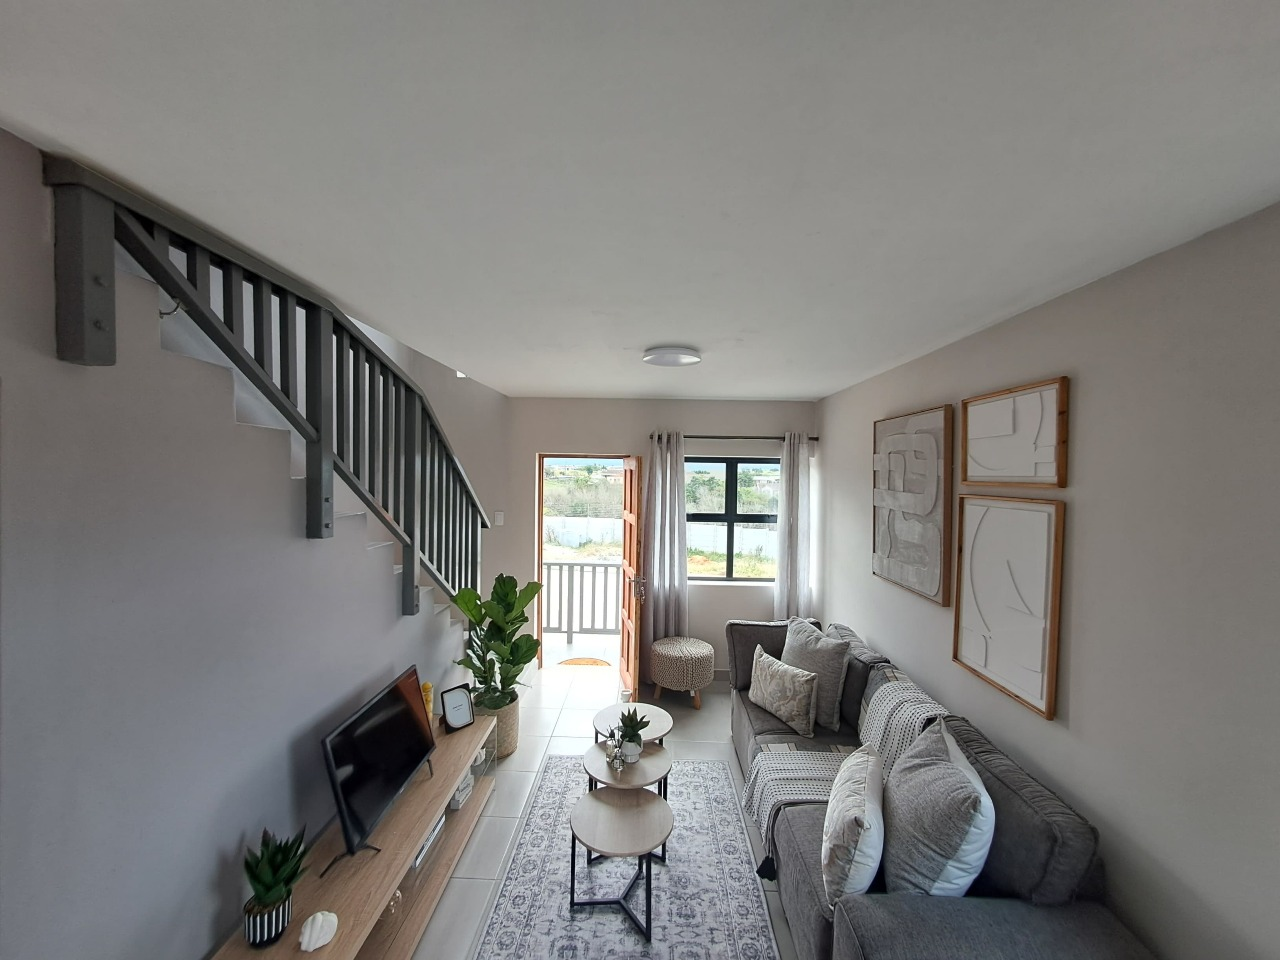
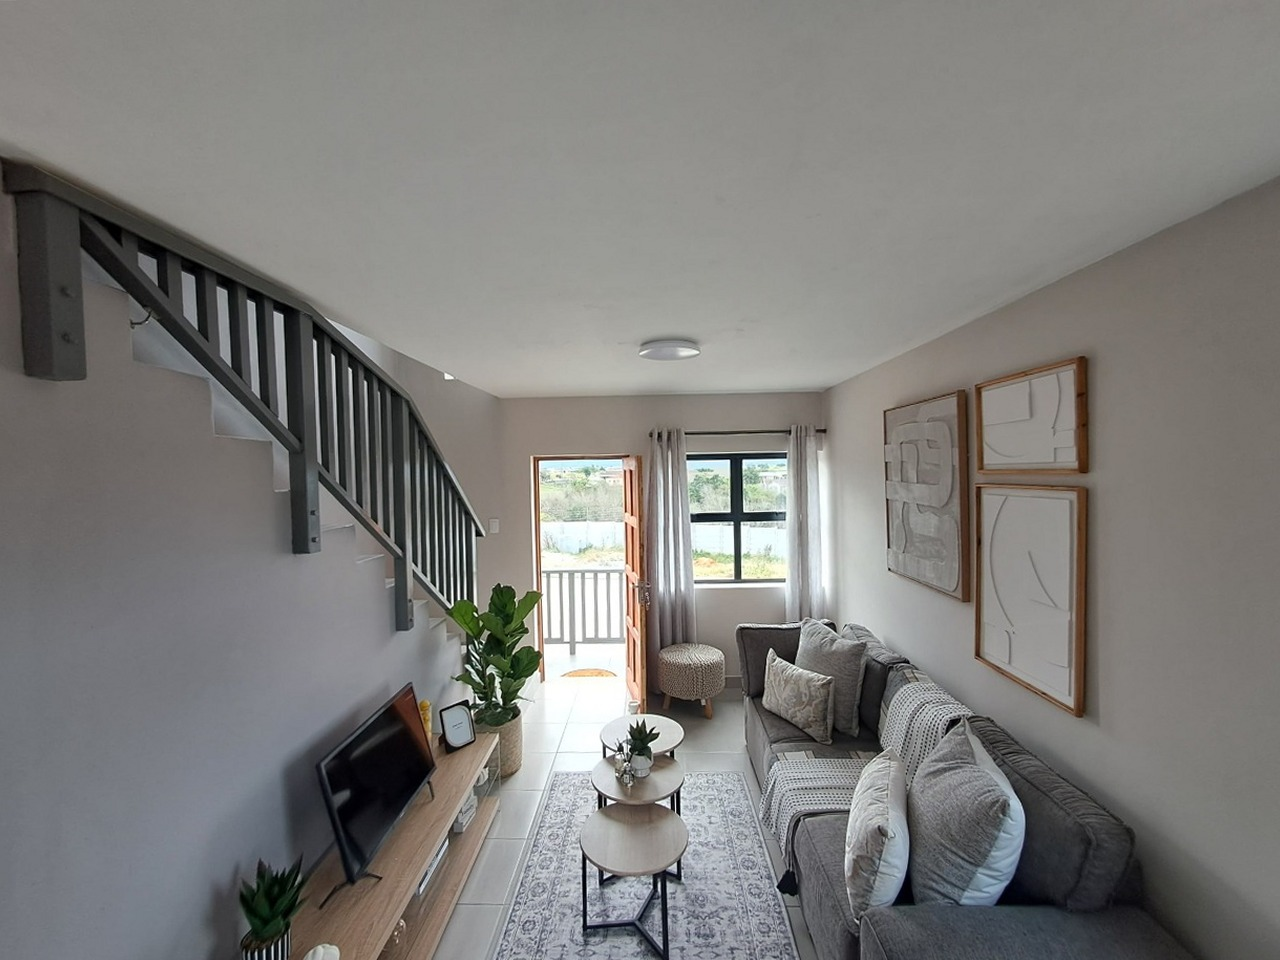
Fix auto-sound, level hero image, retheme walkthrough button
- forcePlayVideos now targets video[muted] only — prevents walkthrough
  audio bleeding through on mobile first touch
- Hero 1000002144.jpg rotated 2° CCW + 1.05× scale to level ceiling,
  no black corners, same 1280×960 dimensions
- Walkthrough play button changed from orange #ff6a00 to theme navy #284860

diff --git a/index.html b/index.html
@@ -332,9 +332,22 @@
   <div id="galleryBgSlideshow" class="absolute inset-0 z-0"></div>
   <div class="absolute inset-0 z-[1]" style="background:rgba(26,45,62,0.78);"></div>
   <div class="max-w-6xl mx-auto px-4 relative z-[2]">
-    <div class="flex items-center justify-center gap-3 mb-6 sm:mb-12">
-      <img src="./logo.png" alt="Bloukloof Properties" class="h-10 sm:h-16 w-auto" style="filter: brightness(0) invert(1);" />
-      <h2 class="text-5xl sm:text-7xl text-white" style="font-family: 'Tangerine', cursive; font-weight: 700; line-height: 1;">Gallery</h2>
+    <div class="grid grid-cols-3 items-center mb-6 sm:mb-12">
+      <!-- Left: walkthrough button -->
+      <div class="flex items-center gap-2 sm:gap-3">
+        <button onclick="openWalkthrough()"
+          class="cta-shimmer flex items-center justify-center bg-[#ff6a00] hover:bg-[#e55a00] text-white rounded-full w-10 h-10 transition-all shadow-lg flex-shrink-0">
+          <svg xmlns="http://www.w3.org/2000/svg" class="h-5 w-5" viewBox="0 0 24 24" fill="currentColor"><path d="M8 5v14l11-7z"/></svg>
+        </button>
+        <span class="text-white font-medium text-sm sm:text-base">Wanna walk through?</span>
+      </div>
+      <!-- Centre: big logo -->
+      <div class="flex flex-col items-center gap-1">
+        <img src="./logo.png" alt="Bloukloof Properties" class="h-16 sm:h-28 w-auto" style="filter: brightness(0) invert(1);" />
+        <h2 class="text-5xl sm:text-8xl text-white" style="font-family: 'Tangerine', cursive; font-weight: 700; line-height: 1;">Gallery</h2>
+      </div>
+      <!-- Right: empty balance column -->
+      <div></div>
     </div>
 
     <div class="relative rounded-2xl overflow-hidden h-[260px] sm:h-[500px]">
@@ -362,7 +375,7 @@
     <div class="flex items-center justify-center gap-3 mt-8">
       <span class="text-white font-medium text-base">Wanna walk through?</span>
       <button onclick="openWalkthrough()"
-        class="cta-shimmer flex items-center justify-center bg-[#ff6a00] hover:bg-[#e55a00] text-white rounded-full w-10 h-10 transition-all shadow-lg flex-shrink-0">
+        class="cta-shimmer flex items-center justify-center bg-[#284860] hover:bg-[#1a2d3e] text-white rounded-full w-10 h-10 transition-all shadow-lg flex-shrink-0">
         <svg xmlns="http://www.w3.org/2000/svg" class="h-5 w-5" viewBox="0 0 24 24" fill="currentColor"><path d="M8 5v14l11-7z"/></svg>
       </button>
       <span class="text-white font-medium text-base">Push here</span>
@@ -1706,7 +1719,7 @@
 
   // Force video autoplay on mobile (iOS requires programmatic play after load/touch)
   function forcePlayVideos() {
-    document.querySelectorAll('video').forEach(v => { v.play().catch(() => {}); });
+    document.querySelectorAll('video[muted]').forEach(v => { v.play().catch(() => {}); });
   }
   document.addEventListener('DOMContentLoaded', forcePlayVideos);
   document.addEventListener('touchstart', forcePlayVideos, { once: true });
